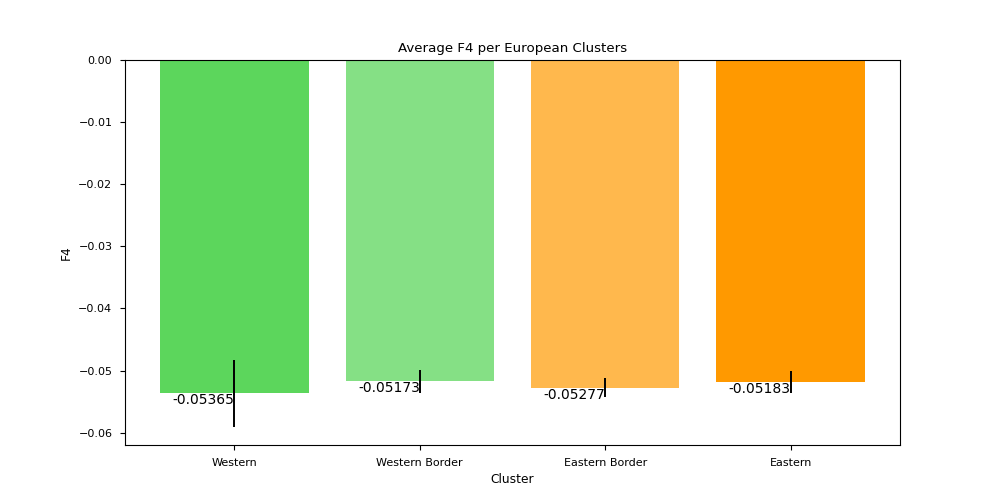
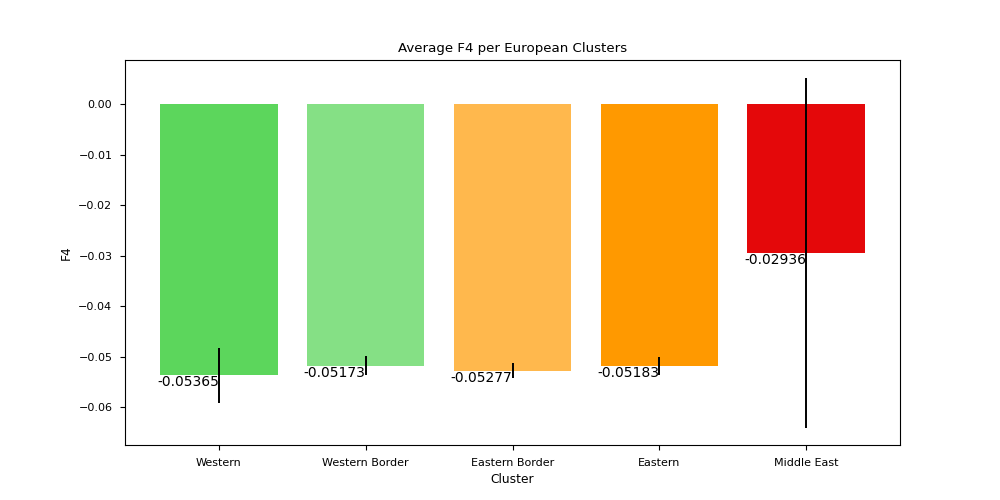
Middle East mean

diff --git a/scripts/python/F4average.py b/scripts/python/F4average.py
@@ -4,9 +4,9 @@ import pandas as pd
 
 plt.style.use("seaborn-v0_8-paper")
 
-groups = {"Western": ["ES", "FR", "GB", "GR", "DK", "CH", "NL", "SE"], "Western Border": ["DE", "IT"], "Eastern Border": ["HU", "PL", "RS", "AT"], "Eastern": ["UA", "BY", "RU", "FI"]}
+groups = {"Western": ["ES", "FR", "GB", "GR", "DK", "CH", "NL", "SE"], "Western Border": ["DE", "IT"], "Eastern Border": ["HU", "PL", "RS", "AT"], "Eastern": ["UA", "BY", "RU", "FI"], "Middle East": ["TR","ISR"]}
 
-df_stats = pd.read_csv("data/f4_stats_all/f4_dgn_trk_noinv.csv")
+df_stats = pd.read_csv("data/f4_stats_all/f4_dgn_cnother_noinv.csv")
 pops = df_stats["Pop"].to_list()
 stats = df_stats["f4"].to_list()
 
@@ -22,7 +22,7 @@ for i in range(len(pops)):
 xlabs = [key for key in data]
 yvals = [mean(data[key]) for key in data]
 yerrs = [stdev(data[key]) for key in data]
-colors = ["#5cd65c", "#85e085", "#ffb84d", "#ff9900"]
+colors = ["#5cd65c", "#85e085", "#ffb84d", "#ff9900", "#e4080a"]
 
 fig, ax = plt.subplots(figsize=(10,5))
 bars = ax.bar(xlabs, yvals, yerr=yerrs, color=colors)
@@ -39,5 +39,5 @@ for bar in bars:
     )
 
 ax.set_title("Average F4 per European Clusters")
-fig.savefig("imgs/f4_noinv/F4_barplot_dgntrk.png")
+fig.savefig("imgs/f4_noinv/F4_barplot_dgncnother.png")
 fig.show()
